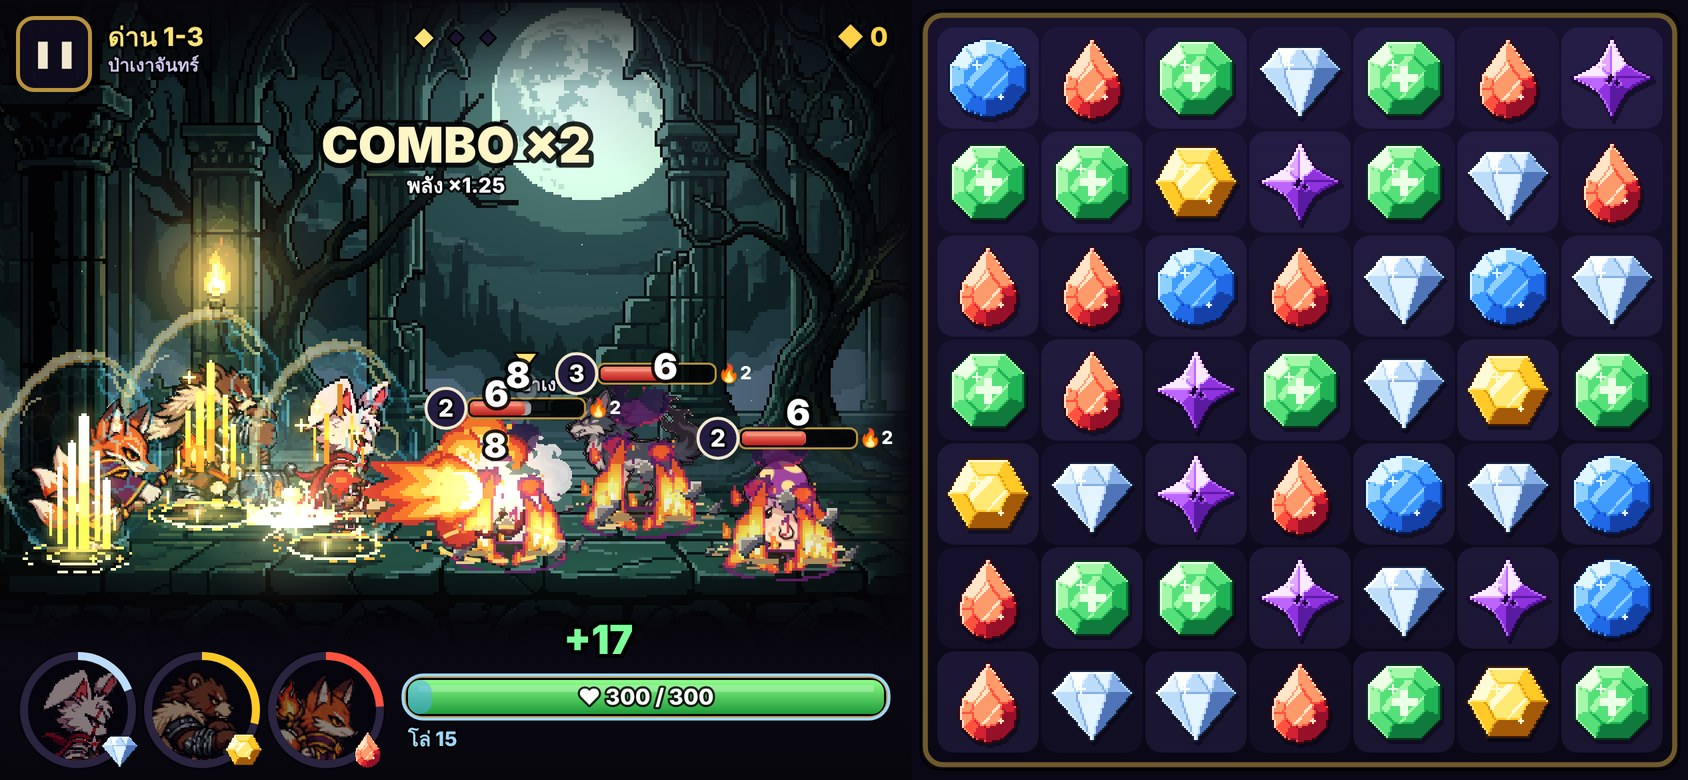
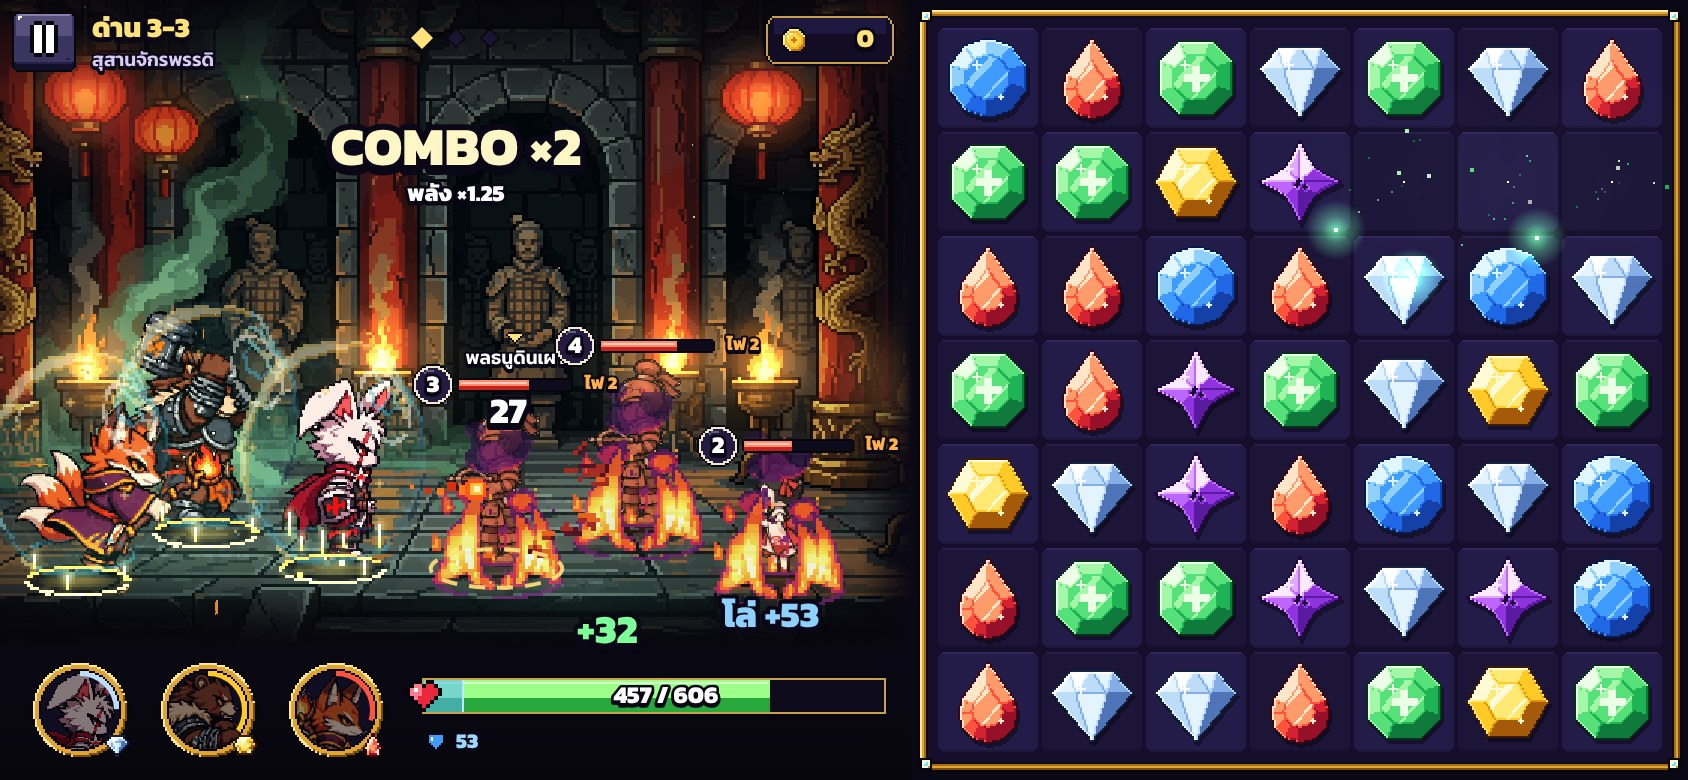
gem.html as a phone game: one canvas, pixel UI kit, title / lobby / map / briefing / result screens, own arenas
No HTML menus any more: every screen is drawn by the game with a UI kit painted in code
(frames, buttons with press states, ribbons, medals, bars, stars, coins), text in Kanit.
New: title, camp lobby, stage map per chapter, stage briefing, animated result screen,
star chest, hero cards, settings (sound, music, vibration, full screen, screen direction),
web app manifest + home-screen icon. PixelLab art (16 standard generations): five arenas,
the camp, UI icons, the emblem; raw files and prompts in art/incoming/gem/.
Balance: the first tuning counted rewards twice in the test harness; rewards doubled so the
real game matches what was tuned. tools/qa/gem_play.js plays the game with real clicks.

Claude-Session: https://claude.ai/code/session_01TXxUxQt8qPPSTWTLTuDzys

diff --git a/CLAUDE.md b/CLAUDE.md
@@ -11,7 +11,7 @@ Long chats cost a lot: when the subject changes, suggest a new chat; every decis
 **PixelLab credits (owner 2026-11-11, after Claude generated 31 credits of props without being asked): generate ONLY when the owner explicitly says to ("เจน", "ทำเลย"); a question like "เจนเองไม่ได้หรือ" is a question, not an order. Before every job say what it is and how many credits it costs. NEVER use mode="pro" (15-25 gen) or Pro Flash (5-9 gen) on a first try: always make the 1-credit standard version first, show it, and use pro only when the owner looks at it and asks for more (Claude spent 15 on a pro sidescroller tileset and again 15 on a pro top-down tileset without a standard test; the owner: "รอบที่แล้วก็เจนโปร ... ไม่มีบทเรียนเลยหรือ"). A budget like "20 เครดิต" is a ceiling, not a target.**
 **Generated art (owner 2026-11-12 "ลบเลยไม่ได้ว่า"): never strip effects, swooshes or other parts PixelLab / GPT drew into a picture or clip without asking the owner first; show both versions and let the owner choose. Keep the raw files.**
 **Moves are shared, not generated per character (owner 2026-11-13: "ทำไมเราต้องเจนท่าวิ่งใหม่กับ PixelLab ตลอด", "ท่าวิ่งทุกตัวก็เหมือนเดิม", "การวาดเราให้ GPT วาด ใช้ของให้ถูกที่"): do NOT order a new run / idle / hurt / death / roll from PixelLab for each new character. The standard motion library `art/poses/std/` (`tools/art/pose_lib.py`, cut from our own heroes, side view facing right) has `common/` (idle, run, roll, hurt, death = every character) and `weapon/` (sword_slash, bow_shoot, staff_cast = only characters with that weapon); each sheet has a `PROMPT_<move>.txt`: the owner attaches the sheet + the character to GPT, GPT draws the character in those 8 poses, Claude cuts / lines up / joins the frames (pixelising is optional, painted 2D works too). Colour stick-figure sheets for moves with no clip: `tools/art/pose_guide.py`. Only truly unique moves (skills) are made separately. Whether GPT follows the sheets well was still UNTESTED on 2026-11-13: check the first result before relying on it.**
-- Never use an API key pasted into the chat. PixelLab from the cloud: `PL_KEY=proxy-injected python3 tools/pl_rpc.py <tool> '<json>'` (`--upload <png>` → `upload:<id>`); balance ~1,391 on 2026-11-13 (resets 2026-12-08). EVERY PixelLab job goes into the job log at the top of `docs/action-game.md`. Open the exact input picture before any paid job.
+- Never use an API key pasted into the chat. PixelLab from the cloud: `PL_KEY=proxy-injected python3 tools/pl_rpc.py <tool> '<json>'` (`--upload <png>` → `upload:<id>`); balance ~1,267 on 2026-11-14 (resets 2026-12-08). EVERY PixelLab job goes into the job log at the top of `docs/action-game.md`. Open the exact input picture before any paid job.
 - Another artist's signed work (e.g. the @KIANAMOSSER pines) is a style reference only: not stored in the repo, not used in a game. A sketch / template used as a motion reference: poses only.
 - GPT / Codex is connected to the repo too (`AGENTS.md`): Codex makes pictures on a `codex/<task>` branch into `art/incoming/<task>/` with `REPORT_TH.txt` and opens a PR without merging; Claude writes code and brings the art in (never merge a Codex PR as it is). Claude cannot start Codex: the owner types the phrase on the PC.
 
@@ -23,7 +23,7 @@ Long chats cost a lot: when the subject changes, suggest a new chat; every decis
 - Kept on purpose: monsters (`art/action/mobs*`, `art/incoming/mobs/`, `art/td/map*/mob_*.png`), VFX (`fx/`, `art/incoming/pfx`, `pfx_ref`, `fx_video`, `fx_codex`, `fx_raw`, `vfxlab.html`, `vfxcut.html`, `docs/vfx-pack.html`, `docs/fx-prompts.html`), props / ground / map art, the pose library, dogcat (not named by the owner in the cleanup: ask before deleting it).
 - `bag.html`: กระเป๋านักดาบ, a backpack auto-battler made on the owner's order (2026-11-13 "ทำเกมอีกเกม ให้คิดเองหมดเลย แนว backpack ... ขอสนุกๆ"); design + balance notes at the end of `docs/action-game.md`.
 - `td.html`: ป้อมแชมเปี้ยนเผ่า, tower defense on map1 with the champions as towers (owner 2026-11-13 "ทำเกม tower defense สวยๆ มา"); notes at the end of `docs/action-game.md`.
-- `gem.html`: ศึกอัญมณี, a match-3 battle (owner 2026-11-13 late night "สร้างเกมเรียงเพชรแบบต้องสู้ เรียงเพชรแล้วกลายเป็นการโจมตี ... ไม่จำกัด เอาที่ Claude ถนัดที่สุด"): rabbit / bear / fox party vs 42 monsters in 30 stages, gems + lights + sound all code, 0 credits; rules, the `BAL` balance table and test results at the end of `docs/action-game.md`; checks: `node tools/qa/gem_balance.js`, `gem_fuzz.js`. Newest thing the owner asked for: start here when they say "เกมเพชร".
+- `gem.html`: ศึกอัญมณี, a match-3 battle (owner 2026-11-13 "สร้างเกมเรียงเพชรแบบต้องสู้ เรียงเพชรแล้วกลายเป็นการโจมตี"; 2026-11-14 "สวยๆ ให้เหมือนเกมในมือถือ ไม่เอาเหมือนเว็บ"): rabbit / bear / fox party vs 42 monsters, 6 chapters x 5 stages. ONE canvas, no HTML menus: title → lobby (camp) → stage map → briefing → fight → result, all drawn with a pixel UI kit painted in code; keep it that way (no HTML / CSS boxes, no emoji as icons, text in Kanit). Art made for it: `art/gem/` (PixelLab arenas, icons, emblem; raw + prompts `art/incoming/gem/`), font notice `vendor/kanit/`, `gem.webmanifest` for the home screen. Rules, the `BAL` balance table, test results: the two newest sections at the end of `docs/action-game.md`. Checks, ONE browser at a time: `node tools/qa/gem_play.js`, `gem_fuzz.js`, `gem_balance.js`. Newest thing the owner asked for: start here when they say "เกมเพชร".
 - `combo.html`: combo test page (modes: shiba from a Meta AI sheet / video, the old swordsman's drawn frames, cut-out bones, stick figure, Ozzbit template).
 - `art/poses/`: shared motion library (`std/common`, `std/weapon`), our bone combo (`combo/sword_combo.json`), sketch pose sheets (`ref_sketch/`).
 

diff --git a/.claude/skills/gameplay-qa/SKILL.md b/.claude/skills/gameplay-qa/SKILL.md
@@ -7,6 +7,7 @@ description: Check that a page of this project really works before reporting (lo
 1. Serve locally: `python3 -m http.server 8000` in the repo root (stop it after).
 2. Playwright (pre-installed, `require('playwright')`): open the page at 844x390 (phone, landscape) and, for layout questions, 1920x1000. Collect `pageerror`, failed requests and 4xx / 5xx responses: the list must be empty.
 3. Drive the feature, do not just load: keys / pointer for movement, repeated attack presses for a combo. For exact frames stop `requestAnimationFrame` and step the page's own `step(dt)` / `draw()` (pages expose a small object such as `CB`).
-   `gem.html`: `GM.hold = true` stops its own loop, then `GM.step(dt)` + `GM.draw()` give exact frames; `GM.simStage(ch, st, skill)` plays a whole stage with the auto-player; `node tools/qa/gem_fuzz.js` and `gem_balance.js` are the ready-made runs. Also play once with REAL clicks / drags: hooks do not find a panel hidden behind another one.
+   `gem.html` (all canvas, no DOM buttons): wait for `GM.ready`; `GM.hold = true` stops its own loop, then `GM.step(dt)` + `GM.draw()` give exact frames; `GM.ui()` lists what can be tapped on the screen that is drawn (id + CSS x / y, click those for a real tap), `GM.tap(id)` presses one from code; `GM.scr`, `GM.dlg`, `GM.fade` say where it is; `GM.simStage(ch, st, skill)` plays a whole stage with the auto-player (it does NOT pay the reward: call `GM.grant(win)` once, as `tools/qa/gem_balance.js` does). Ready-made runs: `node tools/qa/gem_play.js [shots folder]` (real clicks and drags, start to save), `gem_fuzz.js`, `gem_balance.js`. Always play once with REAL clicks / drags: hooks do not find a panel hidden behind another one.
+   Run browser checks ONE AT A TIME: four Chromium runs side by side got the cloud session's worker killed (out of memory, 2026-11-14).
 4. Screenshot and LOOK at the result (crop + enlarge with nearest for pixel art). Check feet on the ground, frames not cut, sizes next to props, no stray pixels.
 5. Report plainly in Thai: what was tested, what was not (e.g. not tried on a real phone), numbers seen. Never claim the live site was checked: it cannot be reached from the cloud session; check the Pages deploy run instead.

diff --git a/.claude/skills/game-project-architect/SKILL.md b/.claude/skills/game-project-architect/SKILL.md
@@ -4,8 +4,9 @@ description: Decide where code, art and notes go in this repository and how work
 ---
 # Project layout and shipping
 
+- A game meant to feel like a phone game (`gem.html`) draws its whole UI on the canvas: no HTML menus, no CSS panels, no emoji icons.
 - Pages are single self-contained HTML files in the repo root (`map.html`, `gem.html`, `bag.html`, `td.html`, `combo.html`, `dogcat.html`, `vfxlab.html`, `vfxcut.html`; `action.html` = code base without hero art). No build step; art loaded by relative path. Patch with exact string replacement and check each anchor is unique.
-- Art in use: `art/td/` (maps), `art/action/mobs*`, `props*`, `ground*`, `art/dogcat/`, `art/poses/`, `fx/`. Raw / incoming: `art/incoming/<task>/` (keep raw files). Tools: `tools/art/*.py`, one job per script, the command in its header comment. Test scripts for a page (need node + Playwright, so the cloud session only): `tools/qa/*.js`.
+- Art in use: `art/td/` (maps), `art/action/mobs*`, `props*`, `ground*`, `art/dogcat/`, `art/poses/`, `fx/`, `art/bag/`, `art/gem/` (+ `gem.webmanifest` in the root: the home-screen app of `gem.html`). Third-party things keep a notice in `vendor/<name>/` (fonts too: `vendor/kanit/`). Raw / incoming: `art/incoming/<task>/` (keep raw files). Tools: `tools/art/*.py`, one job per script, the command in its header comment. Test scripts for a page (need node + Playwright, so the cloud session only): `tools/qa/*.js`.
 - Notes: `CLAUDE.md` stays short (rules + current work); progress, decisions and the PixelLab job log go at the end / top of `docs/action-game.md`. Codex briefs: `docs/codex/action/*.md` + `AGENTS.md`.
 - Ship every batch: branch `main-8rp02y` → commit → push → PR → merge to `main`. GitHub Pages needs 3-5 minutes; give links with `&v=N`.
 - Deleted on 2026-11-13 (old games, old heroes): do not bring back unless asked; history has them (`70e92df`).

diff --git a/vendor/kanit/NOTICE.md b/vendor/kanit/NOTICE.md
@@ -1,0 +1,8 @@
+# Kanit
+
+`gem.html` (ศึกอัญมณี) draws all of its text with Kanit, weights 600 and 800: the Thai and Latin subsets as woff2 in
+`art/gem/font/` (four files, about 67 KB together), taken unchanged from the npm package `@fontsource/kanit` 5.3.0.
+
+Kanit: https://github.com/cadsondemak/kanit
+Copyright 2020 The Kanit Project Authors, SIL Open Font License 1.1 (see OFL.txt in this folder).
+The licence allows using and shipping the font with a game; the font files must not be sold on their own.
